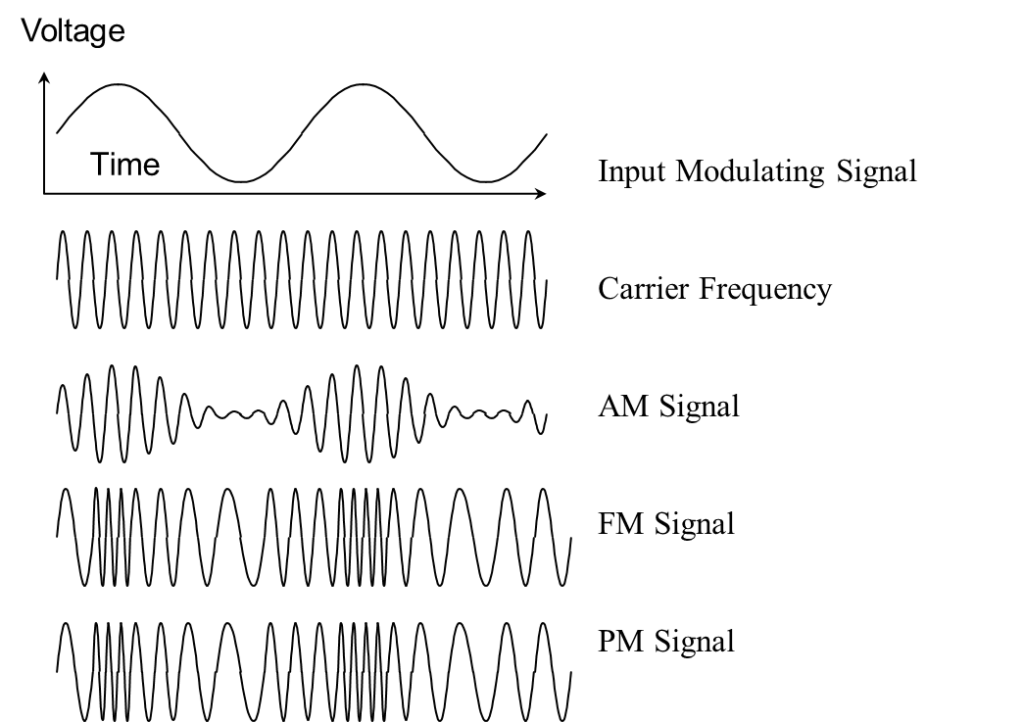
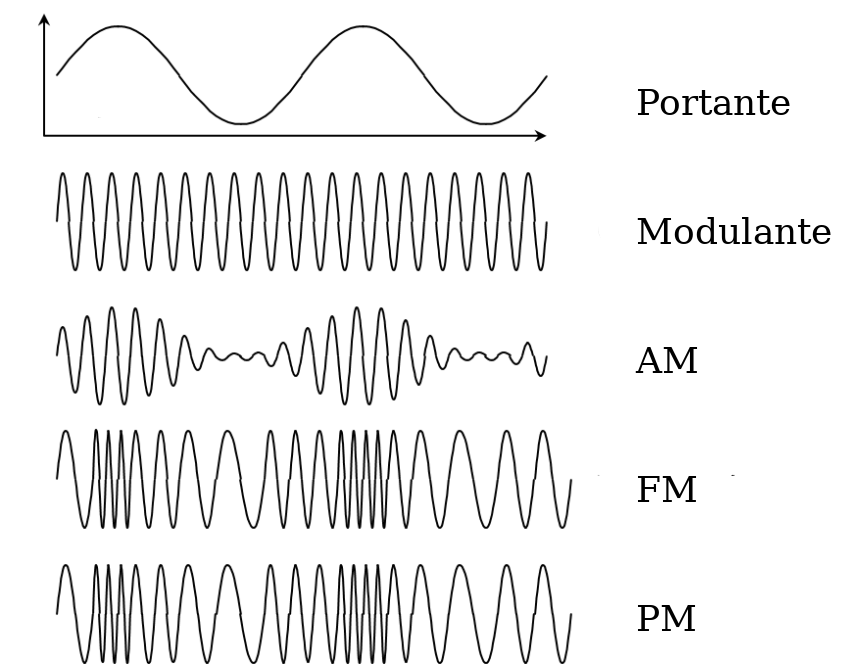
Livello fisico: traduzione immagini e inizio modulazioni digitali.

diff --git a/networking.tex b/networking.tex
@@ -6,6 +6,7 @@
 \usepackage[colorlinks=true,linkcolor=blue]{hyperref}
 \usepackage{hyperref}
 \usepackage{nameref} 
+\usepackage{siunitx}
 \graphicspath{{./images/}}
 
 \def\code#1{\texttt{#1}}
@@ -87,7 +88,7 @@ In un segnale sinusoidale, la distanza tra due massimi relativi è detta \textit
 Lo spettro è l'insieme delle frequenze che compongono un segnale. Questa affermazione, non necessariamente di immediata comprensione, diventa subito chiara se si tiene presente il \textbf{teorema di Fourier}, il quale afferma che un segnale può essere rappresentato come somma di sinusoidi (potenzialmente infinite) con caratteristiche differenti.
 
 \subsub{Ampiezza di banda}
-L'ampiezza di banda è costituita dall'insieme di frequenze dello spettro \textit{effettivamente utilizzate} e corrisponde alla massima velocità teorica della rete. Si parla di \textit{banda larga} nel caso in cui l'ampiezza di banda sia sensibilmente superiore a quella utilizzata correntemente per le comunicazioni telefoniche.
+L'ampiezza di banda è costituita dall'insieme di frequenze dello spettro \textit{effettivamente utilizzate} e corrisponde alla massima velocità teorica della rete. Si parla di \textit{banda larga} nel caso in cui l'ampiezza di banda sia sensibilmente superiore a quella utilizzata correntemente per le comunicazioni telefoniche (3100 Hz).
 
 \subsection{Qualità delle trasmissioni}
 Come già accennato in precedenza, é lo strato fisico che determina in larga parte la qualità delle comunicazioni, valutabile in base a prestazioni e affidabilità. 
@@ -127,8 +128,8 @@ dove $v_{in}$ è il segnale in ingresso e $v_{out}$ il segnale in uscita.
 \end{itemize}
 
 \sub{Modulazione}
-Sovente capita che l'informazione debba essere convertita in maniera idonea ad essere inviata nel mezzo trasmissivo adottato. Tale processo è detto \textit{modulazione} ed è reversibile: il \textit{segnale portante}, caratteristico del mezzo trasmissivo, viene modificato in uno dei suoi parametri essenziali in accordo al segnale in ingresso, contenente l'informazione da trasmettersi, che è detto \textit{segnale modulante}.
-\subsub{Ad onda continua}
+Sovente capita che l'informazione debba essere convertita in maniera idonea ad essere inviata nel mezzo trasmissivo adottato. Tale processo è detto \textit{modulazione} ed è reversibile: il \textit{segnale portante}, caratteristico del mezzo trasmissivo, viene modificato in uno dei suoi parametri essenziali in accordo al segnale in ingresso, contenente l'informazione da trasmettersi, che è detto \textit{segnale modulante} tipicamente analogico.
+\subsub{Modulazione ad onda continua}
 Si parla di modulazione ad onda continua nel momento in cui viene modulata una portante sinusoidale. Ne esistono tre tipologie:
 \begin{itemize}
 \item \textbf{AM} (Amplitude Modulation): l'ampiezza del segnale portante viene modulata in proporzione al segnale modulante. Per quel che riguarda la trasmissione digitale, lo 0 è associato a bassa potenza e l'1 ad alta potenza.
@@ -140,7 +141,7 @@ Si parla di modulazione ad onda continua nel momento in cui viene modulata una p
 \fbox{\includegraphics[scale=0.5]{am_fm_pm.png}}
 \caption{Confronto tra tipologie di modulazione ad onda continua}\label{fig. 2}
 \end{figure}
-\subsub{Impulsiva}
+\subsub{Modulazione impulsiva}
 La modulazione impulsiva è un tipo di modulazione in cui l'informazione è codificata in una serie di impulsi. I principali tipi di modulazione impulsiva sono:
 \begin{itemize}
 \item \textbf{PAM} (Pulse Amplitude Modulation), analoga alla AM
@@ -155,8 +156,9 @@ La modulazione impulsiva è un tipo di modulazione in cui l'informazione è codi
 \item \textbf{PCM} (Pulse Code Modulation), nata dall'esigenza, intorno agli anni '40, di aumentare il numero di collegamenti telefonici interurbani. Per evitare l'impianto di grossi fasci di conduttori, ingombranti, costosi e difficili da connettere, si pensò di multiplare un gran più collegamenti su un unico cavo, utilizzando una soluzione preesistente, la \textbf{FDM} (Frequency Division Multiplexing), poi  abbandonata per la più moderna \textbf{TDM} (Time Division Multiplexing), inizialmente realizzata per mezzo delle tre tecniche impulsive sopra descritte, poi attraverso appunto la PCM, ad oggi l'unica adottata su larga scala. La PCM costa di tre fasi distinte:
 \begin{itemize}
 \item \textbf{campionamento}: conversione del segnale continuo in un segnale discreto nel tempo, valutandone l'ampiezza a intervalli di tempo regolari. Ciò è possibile, come affermato dal \href{<https://it.wikipedia.org/wiki/Teorema_del_campionamento_di_Nyquist-Shannon>}{Teorema di Shannon}, poiché è possibile rappresentare un segnale con frequenza limitata tra $f_{1}$ ed $f_{2}$, con $f_{1}<f_{2}$ mediante una successione di campioni con frequenza minima $2f_{2}$. La minima frequenza di campionamento (\textbf{cadenza di Nyquist}) è pari al doppio della banda; nella PSTN (Public Switched Telephone Network) si assume come frequenza di campionamento $f_{c}=8 Khz$.
-\item \textbf{quantizzazione}: conversione di un segnale a valori continui in uno a valori discreti. Per ottenere un range di valori discreti, si stabiliscono un valore minimo e un valore massimo e si suddivide l'intervallo così ottenuto. Nella quantizzazione uniforme, l'ampiezza è uguale per tutti i sottolivelli; di norma, tuttavia, essa segue una scala logaritmica. Com'è intuibile, la quanmtizzazione è un processo irreversibile, per cui è necessario tener conto dell'errore commesso - si è verificato che, utilizzando 256 livelli di quantizzazione, l'orecchio umano non percepisce sostanziali differenze.
-\item \textbf{codifica}: gli impulsi campionati e quantizzati vengono convertiti in sequenze di bit (nel PCM europeo, che utilizza appunto $256=2^{8}$ livelli, occorrono 8 bit per campione).
+\item \textbf{quantizzazione}: conversione di un segnale a valori continui in uno a valori discreti. Per ottenere un range di valori discreti, si stabiliscono un valore minimo e un valore massimo e si suddivide l'intervallo così ottenuto. Nella quantizzazione uniforme, l'ampiezza è uguale per tutti i sottolivelli; di norma, tuttavia, essa segue una scala logaritmica. Com'è intuibile, la quantizzazione è un processo irreversibile, per cui è necessario tener conto dell'errore commesso - si è verificato che, utilizzando 256 livelli di quantizzazione, l'orecchio umano non percepisce sostanziali differenze.
+\item \textbf{codifica}: gli impulsi campionati e quantizzati vengono convertiti in sequenze di bit. 
+\\Nel PCM europeo, che utilizza appunto $256=2^{8}$ livelli, occorrono 8 bit per campione. Tra due sequenze di 8 bit destinate ad uno stesso canale telefonico ve ne sono altre trentuno, dirette ognuna ad un altro canale. Vengono dunque trasmessi 32 canali -di cui due di servizio- da 8 bit con 8000 campioni al secondo, per un totale di $32*8000*8=2048 Mbit/sec$. %raggruppamenti di canali?
 \end{itemize}
 \begin{figure}[h]
 \centering
@@ -165,9 +167,32 @@ La modulazione impulsiva è un tipo di modulazione in cui l'informazione è codi
 \label{fig. 4}
 \end{figure}
 \end{itemize}
-
-\subsub{Digitale}
-
+\subsub{Modulazioni digitali}
+Nel caso in cui la comunicazione avvenga fra \vedi{DTE} (tramite un \textbf{modem}, acronimo per modulatore-demodulatore), il termine modulazione é improprio, poiché il segnale viene convertito da digitale ad analogico, ma tale conversione è ottenuta, in prima approssimazione, attraverso una mappatura biunivoca tra sequenze di bit in ingresso ed un insieme di forme d'onda analogiche limitate nel tempo in uscita, dette \textit{simboli}. E' dunque più corretto parlare di \textit{codifica}, per quanto il termine più largamente impiegato sia quello di \textbf{modulazione per modem in banda base}. Esistono diverse varianti di questo tipo di modulazione:
+\begin{itemize}
+\item \textbf{ASK} (Amplitude-Shift Keying), derivante dalla AM; di semplice realizzazione ma poco utilizzata, se non per trasmissioni a breve distanza, per la sua forte sensibilità al rumore. Solitamente, si concretizza in una modulazione OOK (On-Off Keying), in cui il segnale modulato ha ampiezza 0 in corrispondenza dello 0 logico e ampiezza pari a quella della portante non modulata in corrispondenza dell'1 logico.
+\item \textbf{FSK} (Frequency-Shift Keying): la frequenza portante istantanea viene alternata fra due frequenze di valore ben definito. Tali frequenze sono note, l'una come frequenza d'impulso (1 logico), l'altra come frequenza d'intervallo (0 logico). In merito alla scelta di tali frequenze va notato che:
+\begin{itemize}
+\item occorre limitare il più possibile l'occupazione della banda, ma i valori delle frequenze devono essere sufficientemente distanti per evitare che vengano confuse l'una con l'altra (\textit{interferenza intersimbolica})
+\item i due simboli devono avere periodo inferiore o uguale alla frequenza di bit dell'informazione digitale in ingresso
+\item è assolutamente necessario mantenere una continuità di fase nelle variazioni di stato, poiché il circuito di demodulazione, costituito in genere da un rivelatore di apssaggio per lo zero, deve essere in grado di individuare il salto di frequenza con la massima precisione
+\item La frequenza d'impulso è solitamente maggiore di quella di intervallo
+\end{itemize}
+La FSK è stata utilizzata nei primi modem V21 e V23 e la si impiega ancora oggi nei ponti radio e nelle trasmissioni di tipo GSM tra cellulari.
+\item \textbf{PSK} (Phase-Shift Keying), derivante direttamente dalla PM. Può essere applicata in varie maniere, le più diffuse delle quali sono:
+\begin{figure}[h]
+\centering
+\fbox{\includegraphics[scale=0.3]{ask_psk_fsk.png}}
+\caption{Confronto tra codifiche ASK, FSK, e PSK}
+\label{fig. 5}
+\end{figure}
+\begin{itemize}
+\item \textbf{BPSK} (BiPolar-Shift Keying) o \textbf{2-PSK}: per garantire la massima protezione dal rumore e dalle interferenze, vengono scelti i due valori di fase estremi, $\ang{0}$ e $\ang{180}$.
+\item \textbf{DPSK} (Differential Phase-Shift Keying)
+\end{itemize}
+\item \textbf{QAM} (Quadrature Amplitude Modulation)
+\item \textbf{Trellis}
+\end{itemize}
 \sub{Alterazioni del segnale}
 \subsub{Attenuazione}
 \subsub{Distorsione}
